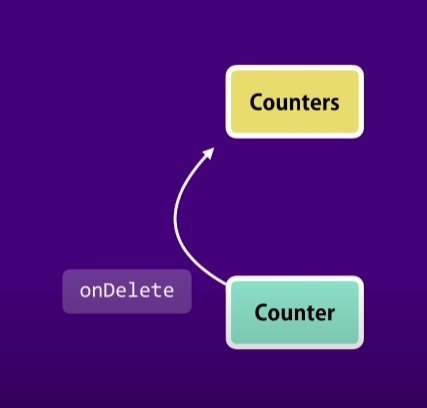
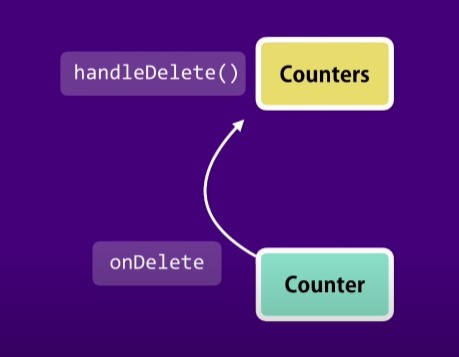
files added

Changed region(s): [[0.1218, 0.0924, 0.8829, 0.9244]]

diff --git a/codingWithMosh/02-counter-app/src/components/04-HandleEvents-counters.jsx b/codingWithMosh/02-counter-app/src/components/04-HandleEvents-counters.jsx
@@ -1,0 +1,34 @@
+import React, { Component } from "react";
+import Counter from "./counter";
+
+class Counters04 extends Component {
+  state = {
+    counter: [
+      { id: 1, value: 4 },
+      { id: 2, value: 0 },
+      { id: 3, value: 0 },
+      { id: 4, value: 0 },
+    ],
+  };
+
+  handleDelete = () => {
+    console.log("event Handler Called");
+  };
+
+  render() {
+    return (
+      <div>
+        {this.state.counter.map((counter) => (
+          <Counter
+            key={counter.id}
+            onDelete={this.handleDelete}
+            value={counter.value}
+            id={counter.id}
+          ></Counter>
+        ))}
+      </div>
+    );
+  }
+}
+
+export default Counters04;

diff --git a/codingWithMosh/02-counter-app/src/index.js b/codingWithMosh/02-counter-app/src/index.js
@@ -8,11 +8,12 @@ import "bootstrap/dist/css/bootstrap.css";
 import Counters from "./components/01-composingComponents-counters";
 import Counters02 from "./components/02-PassingDataToComponents-counters";
 import Counters03 from "./components/03-PassingChildren";
+import Counters04 from "./components/04-HandleEvents-counters";
 
 const root = ReactDOM.createRoot(document.getElementById("root"));
 root.render(
   <React.StrictMode>
-    <Counters03 />
+    <Counters04 />
   </React.StrictMode>
 );
 

diff --git a/codingWithMosh/02-counter-app/src/components/counter.jsx b/codingWithMosh/02-counter-app/src/components/counter.jsx
@@ -26,7 +26,12 @@ class Counter extends Component {
         >
           increment
         </button>
-        <button onClick={this.handleDelete} className="btn btn-danger btn-sm m-2">Delete</button>
+        <button
+          onClick={this.props.onDelete}
+          className="btn btn-danger btn-sm m-2"
+        >
+          Delete
+        </button>
       </div>
     );
   }

diff --git a/codingWithMosh/02-counter-app/README.md b/codingWithMosh/02-counter-app/README.md
@@ -18,7 +18,13 @@
 \*THE COMPONENT THAT OWNS A PIECE OF THE STATE SHOULD BE THE ONE MODIFING IT
 
 - we can modify a component to reaise an event , so our components can rais events and 'onDelete' => this is the naming convention of events
+
   <img src="HandleEvents.jpg" width=30%><img src="dog.gif" width=20%>
+  summary : -> one component wil raise event and other component will handletheevent .this concept of raising and handling events will be seen in a lot of libreries of building ui's
+
+  How to implement this concept react=> basically we are need to add new method in counters component And pass by reference to Tat method via prop to Counter component
+
+  so here the counter component is raising an avent and the counters component is handling the event.
 
 # Getting Started with Create React App
 
